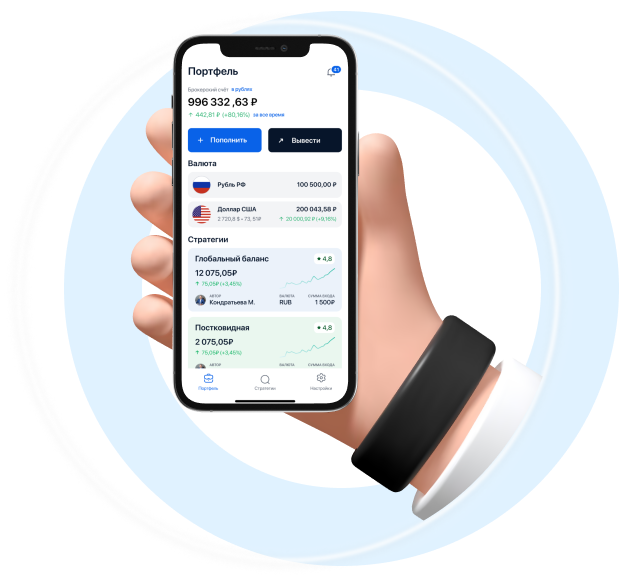
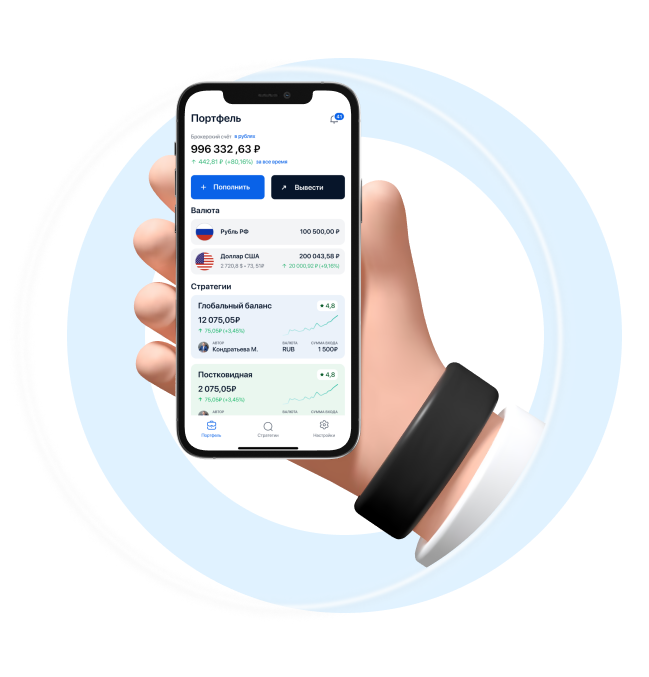
fix

diff --git a/styles.css b/styles.css
@@ -51,14 +51,15 @@ img {
     padding: 60px 0 2rem;
     text-align: center;
     height: 686px;
-
-        background-image: url(./img/Group-1.png);
- 
-
+    background-repeat: no-repeat;
+    background-position: center;
+    background-image: url("./img/Group-2.png");
 }
 
 .header__languages {
     text-align: right;
+    margin-right: 0;
+    padding: 0;
 }
 
 .ru {
@@ -81,20 +82,10 @@ img {
     height: 600px
 }
 
-.header__img {
-    justify-self: center;
-    grid-column: 1;
-    grid-row: 1;
-    width: 100%;
-
-}
-
 .header__data {
     color: rgba(41, 55, 78, 1);
     font-size: 22px;
     text-align: left;
-    grid-column: 1;
-    grid-row: 2;
 }
 
 .order-btn {
@@ -112,7 +103,6 @@ img {
     font-size: 64px;
     font-weight: 700;
     text-align: left;
-
 }
 
 .header__title span {
@@ -133,6 +123,7 @@ img {
 .header__list {
     grid-template-columns: repeat(2, 1fr);
     gap: 1rem;
+    text-align: center;
 }
 
 .header__li {
@@ -161,7 +152,6 @@ img {
 /*=============== MAIN ===============*/
 
 .main__container {
-    padding: 1rem 1rem;
     gap: 1rem;
 }
 
@@ -183,11 +173,10 @@ img {
     font-weight: 500;
     font-size: 24px;
     color: rgba(41, 55, 78, 1);
+    min-width: 100px;
+    max-width: 600px;
     text-align: center;
-}
-
-.main__title p {
-    text-align: center;
+    margin: 0 auto;
 }
 
 .main__title span {
@@ -224,6 +213,7 @@ img {
     grid-template-columns: repeat(2, 1fr);
     gap: 1rem;
     padding: 1rem 0;
+    height: 100%;
 }
 
 .aim__li {
@@ -232,8 +222,8 @@ img {
     border-radius: 20px;
     font-size: 14px;
     font-weight: 500;
+    padding-top: 40px;
 }
-
 
 .aim__li-ring {
     height: 30px;
@@ -241,25 +231,34 @@ img {
     border-radius: 50%;
     background-color: rgba(239, 249, 255, 1);
     text-align: center;
+    margin-bottom: 20px;
+}
+
+.main {
+    padding-bottom: 60px;
 }
 
 /*=============== SIZES ===============*/
 
-@media screen and (min-width: 701px) {
+@media screen and (max-width: 1142px) {
 
     .header {
-        background-color: rgba(203, 236, 255, 1);
-        height: 660px;
+        background-size: 530px;
+        background-position: right 0% top 80px;
     }
+}
 
-    .header__container {
-        grid-template-columns: 1fr 1.3fr;
+@media screen and (min-width: 1143px) {
+    .header {
+        background-size: 630px;
+        background-position: right 7% top 40px;
     }
+}
 
-    .header__img {
-        grid-column: 2;
-        grid-row: 1;
+@media screen and (min-width: 961px) {
 
+    .header__languages {
+        padding-right: 60px;
     }
 
     .header__li p {
@@ -293,7 +292,7 @@ img {
     .header__list {
         grid-template-columns: repeat(4, 1fr);
         gap: 1rem;
-        margin-top: -55px;
+        margin-top: -75px;
         position: relative;
     }
 
@@ -304,17 +303,29 @@ img {
 
     .main {
         margin-top: 60px;
-        padding-top: 100px;
+        padding-top: 80px;
     }
 
     .main__container {
         grid-template-columns: repeat(2, 1fr);
         gap: 1.5rem;
+        padding-top: 1.3rem;
+    }
 
+    .aims {
+        padding-top: 5rem;
     }
 
     .main__text-content {
         text-align: left;
+    }
+
+    .main__text-content .main__title {
+        text-align: left;
+    }
+
+    .main__text-content p {
+        padding-top: 1.5rem;
     }
 
     .main__title {
@@ -350,8 +361,59 @@ img {
         justify-content: center;
         display: flex;
     }
+}
+
+@media screen and (min-width: 1615px) {
+    .header {
+        background-size: 750px;
+        background-position: right 20% top 40px;
+    }
+}
 
 
+@media screen and (max-width: 960px) {
+
+    .header {
+        background-color: rgba(203, 236, 255, 1);
+        height: auto;
+        background-repeat: no-repeat;
+        background-position: center top 0;
+        background-image: url("./img/Group-1.png");
+    }
+
+    .header__container {
+        margin-top: 400px;
+        height: 270px;
+    }
+
+    .header__languages {
+        margin-right: 60px;
+    }
+
+    .header__list li {
+        justify-self: center;
+    }
+
+    .main__article {
+        max-width: 344px;
+    }
+
+    .main__article {
+        justify-self: center;
+    }
+
+    .aim__li {
+        padding: 1rem;
+    }
+
+    .main__title {
+        padding-top: 2rem;
+        padding-bottom: 1rem;
+    }
+
+    .main__article {
+        margin-bottom: 0;
+    }
 }
 
 @media screen and (max-width: 700px) {
@@ -376,16 +438,27 @@ img {
     .header__li {
         font-size: 14px;
     }
-
-
 }
 
-@media screen and (max-width: 320px) {
-    .container {
-        margin-left: 1rem;
-        margin-right: 1rem;
+@media screen and (max-width: 466px) {
+
+    .header {
+        background-size: 410px;
+        background-position: center top 50px;
     }
 
+    .header__languages {
+        margin-right: 30px;
+    }
 
+    .container,
+    .header__title {
+        padding-left: 20px;
+        padding-right: 20px;
+    }
 
+    .order-btn {
+        width: 100%;
+        padding: 15px auto;
+    }
 }

diff --git a/index.html b/index.html
@@ -16,17 +16,16 @@
             <button class="ru">Ru</button>
             <button class="en">En</button>
         </div>
-        <div class="header__container container grid">
+        <div class="header__container container">
             <div class="header__data">
                 <h1 class="header__title">
                     Fin<span>Kit</span>
                 </h1>
                 <p class="header__description">
-                    Гибкая мобильная платформа для быстрой реализации инвестиционных се рвисов.
+                    Гибкая мобильная платформа для быстрой реализации инвестиционных сервисов.
                 </p>
                 <button class="order-btn">Заказать демо</button>
             </div>
-            <img src="./img/Group-1.png" class="header__img">
         </div>
         <ul class="header__list grid container">
             <li class="header__li grid">
@@ -48,7 +47,6 @@
         </ul>
     </header>
     <section class="main">
-
         <div class=" main__container main__title">
             <p>Наши <span>ключевые продукты</span> для инвестиций</p>
         </div>
@@ -72,7 +70,7 @@
                 </div>
             </div>
         </div>
-        <div class="main__container container grid">
+        <div class="main__container aims container grid">
             <div class="main__aims ">
                 <div class="main__text-content">
                     <div class="main__title">
